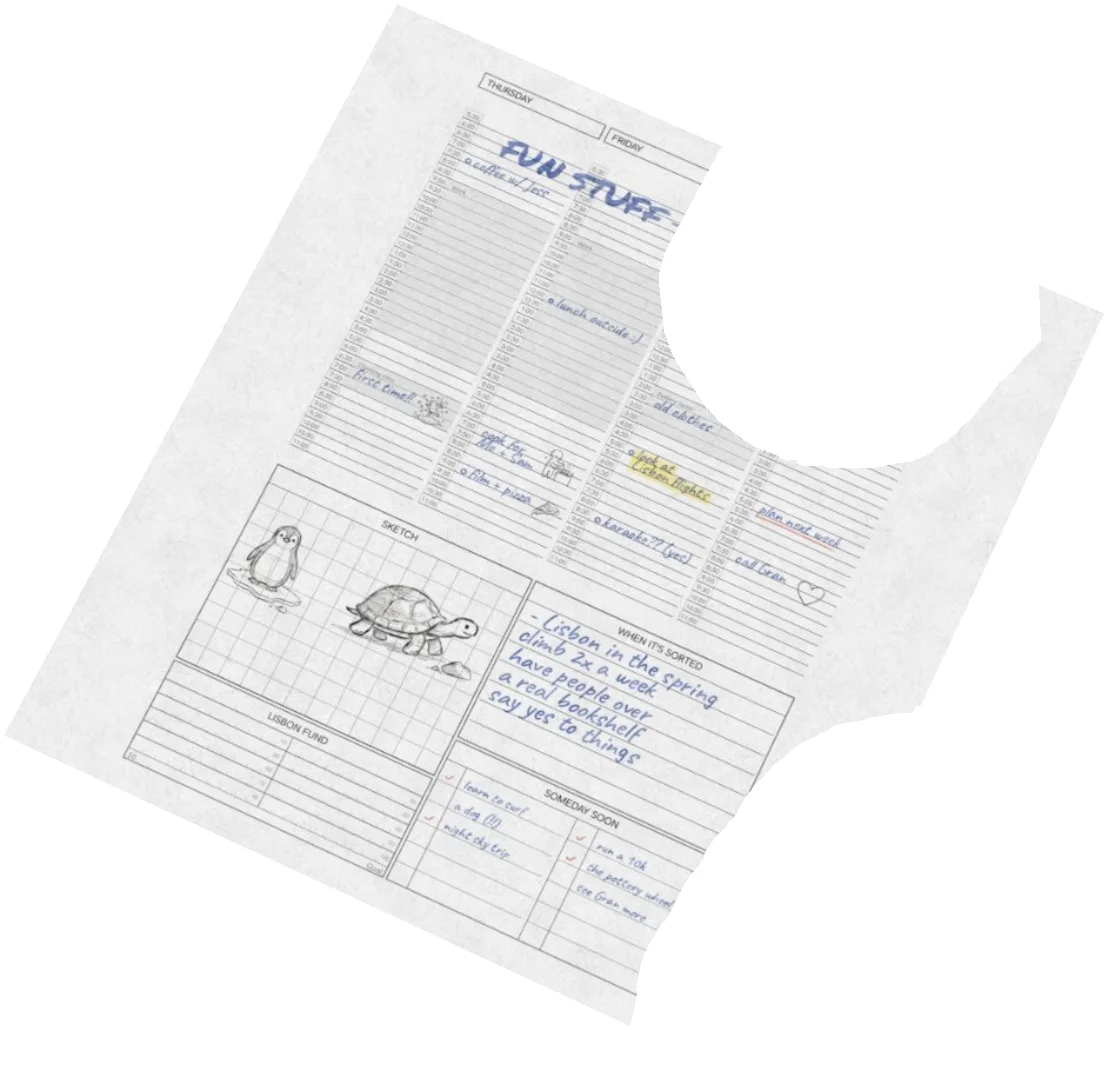
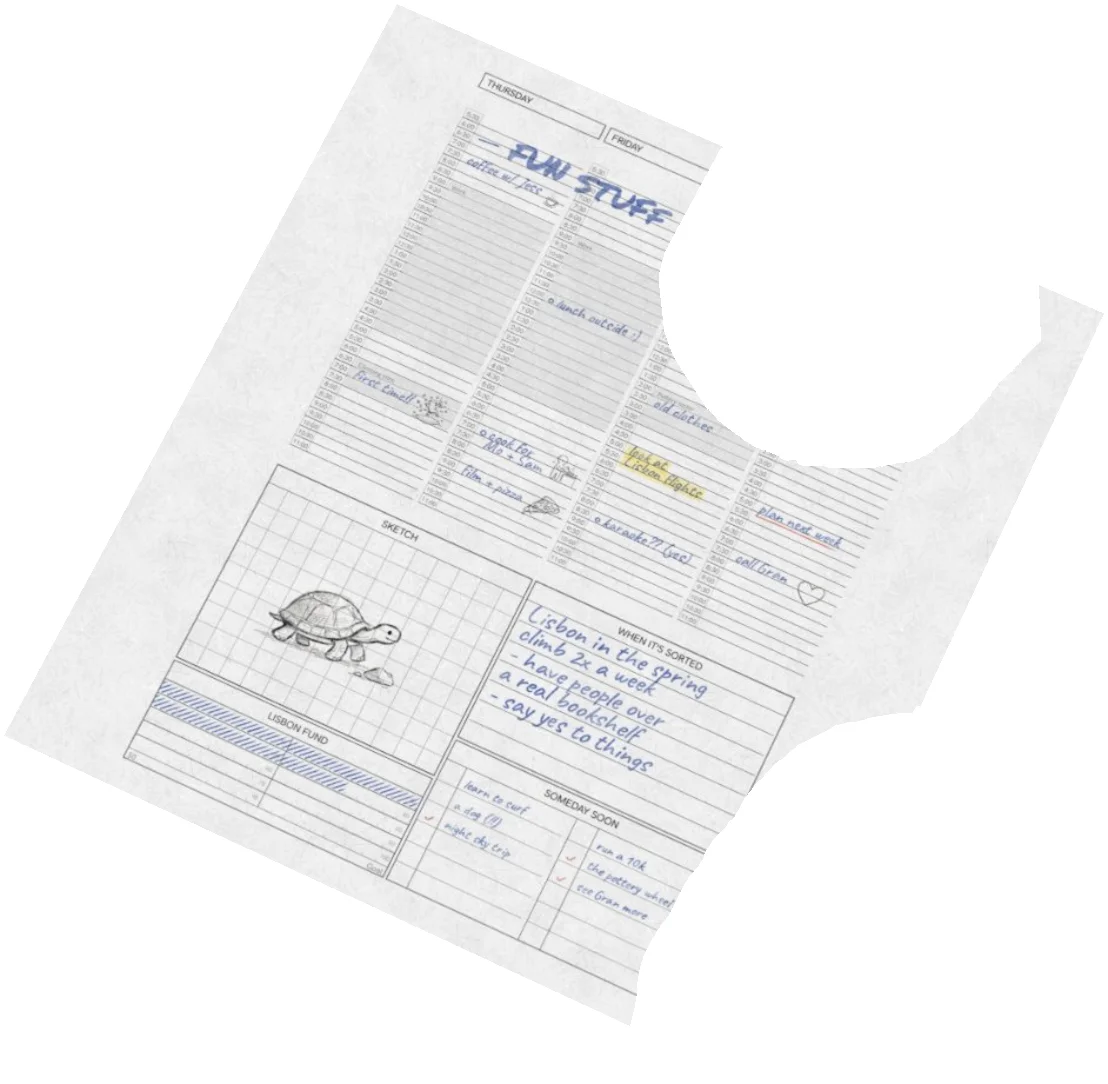
Hero: the loose sheets re-baked with the new marks
The marking changes shift the handwriting's random choices, so the base
week's seed was picked again (6, from eight compared against what the
book, cup and mug hide). The Lisbon fund is now filled in: hatched up to
where the money is.

diff --git a/src/app/landing/looseSheets.ts b/src/app/landing/looseSheets.ts
@@ -34,7 +34,7 @@ export const SHEET_MARGIN = 0;
  * its height is all there is to fill.) `seed` is the handwriting's: the
  * one written in, chosen by eye.
  */
-export const BASE_SHEET = { margin: 28, seed: 8 };
+export const BASE_SHEET = { margin: 28, seed: 6 };
 
 export type SheetBakeInput = {
   /** What is on the sheet: SHEET_TILE at its scale, ink on white. */
